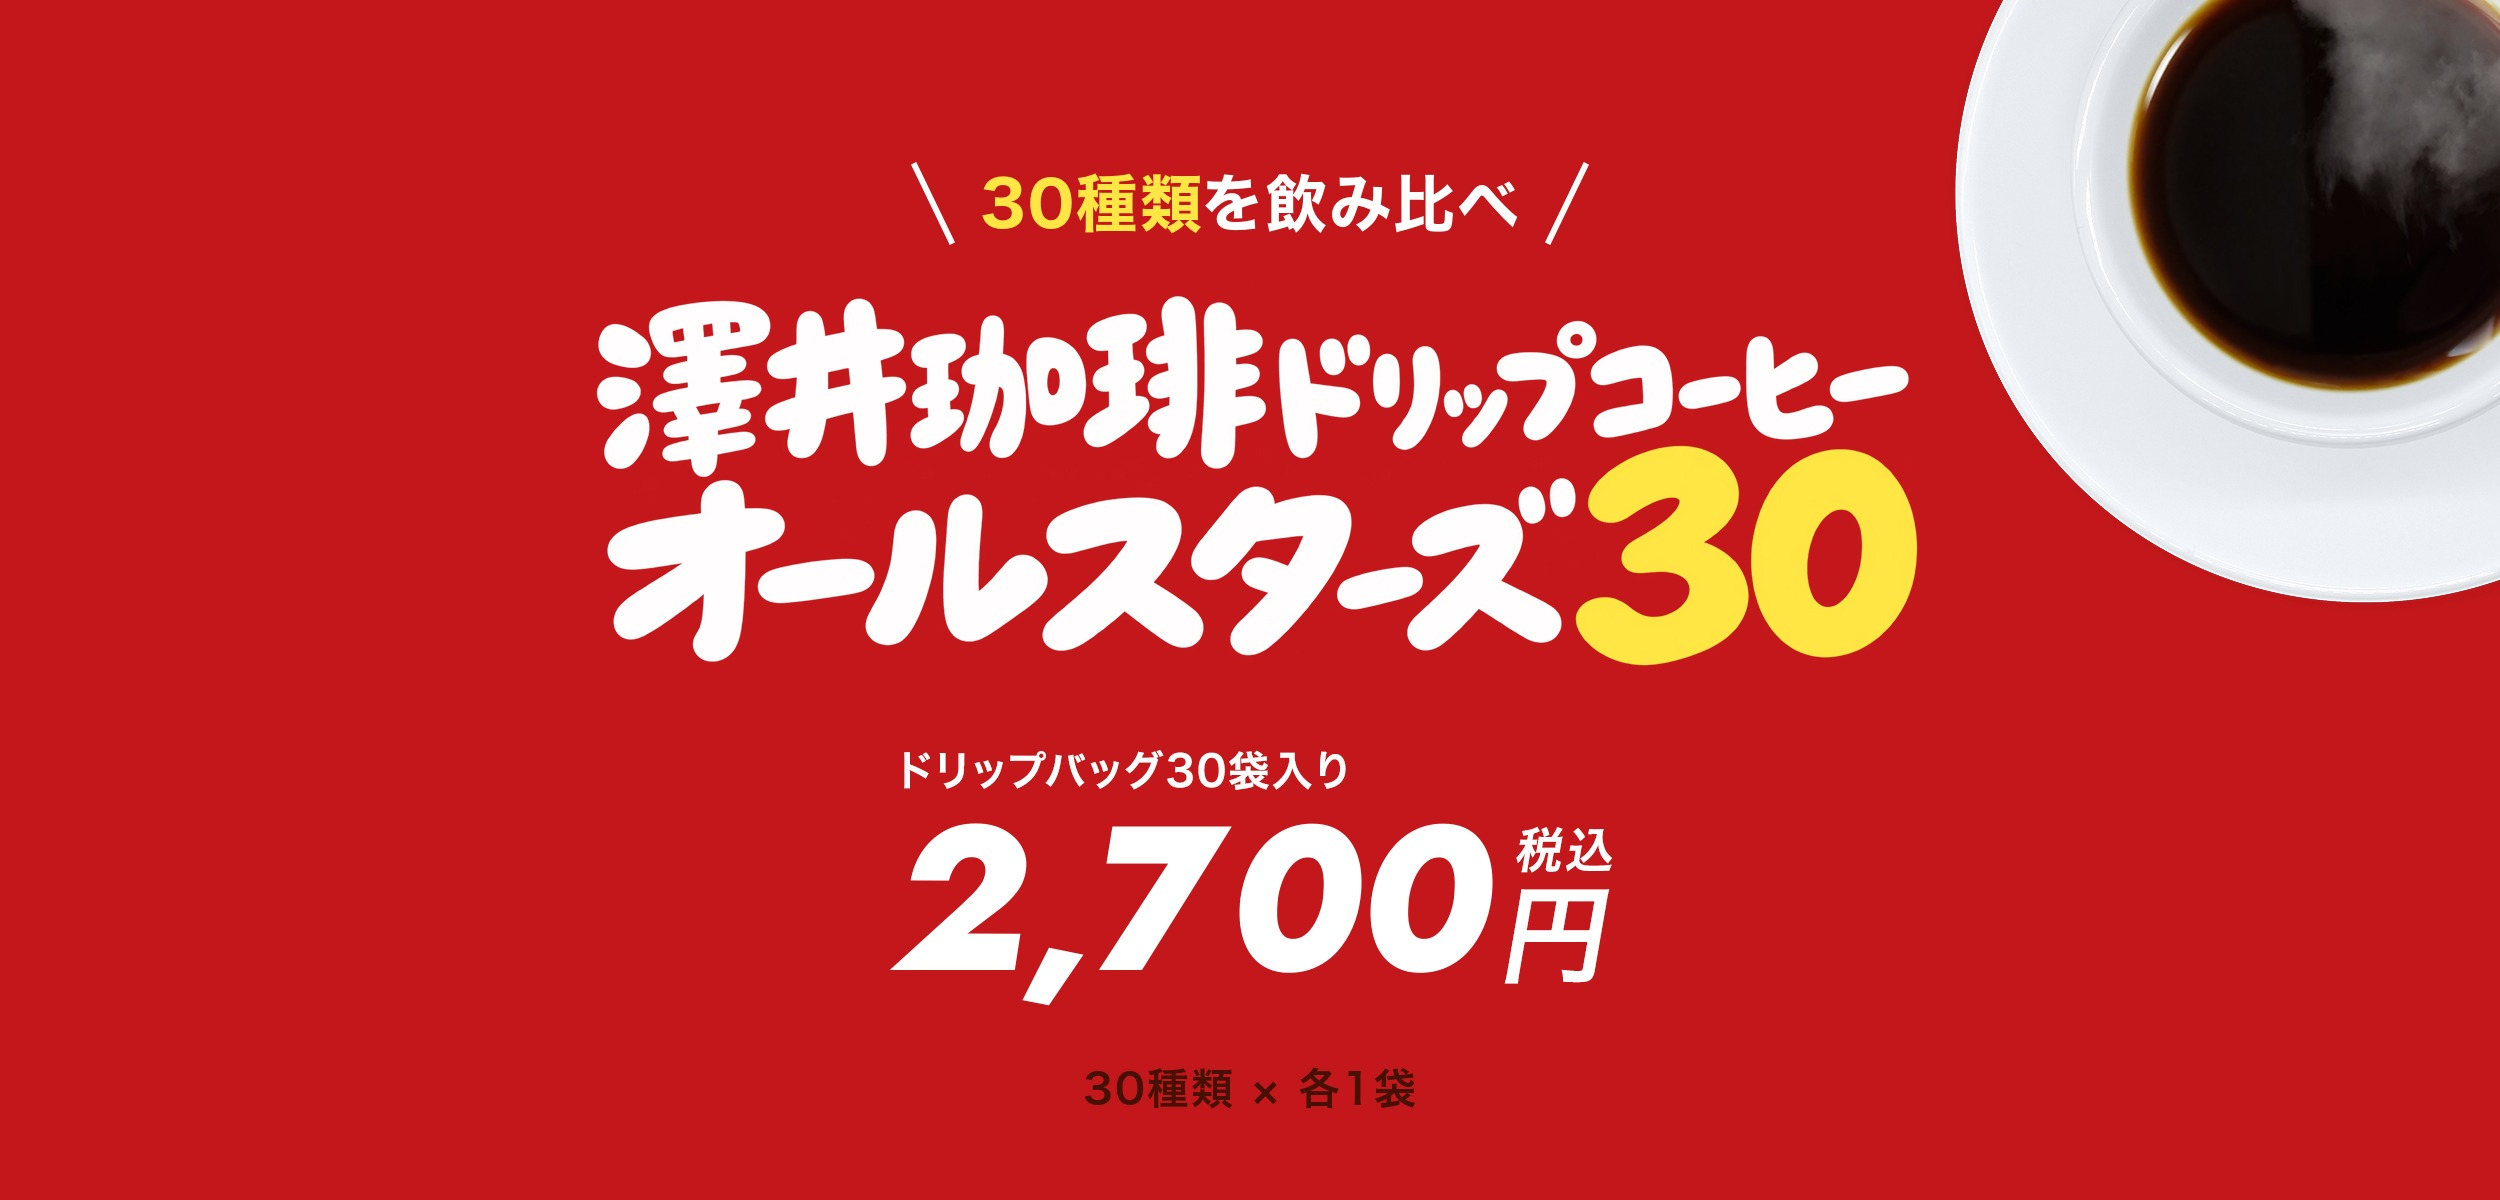
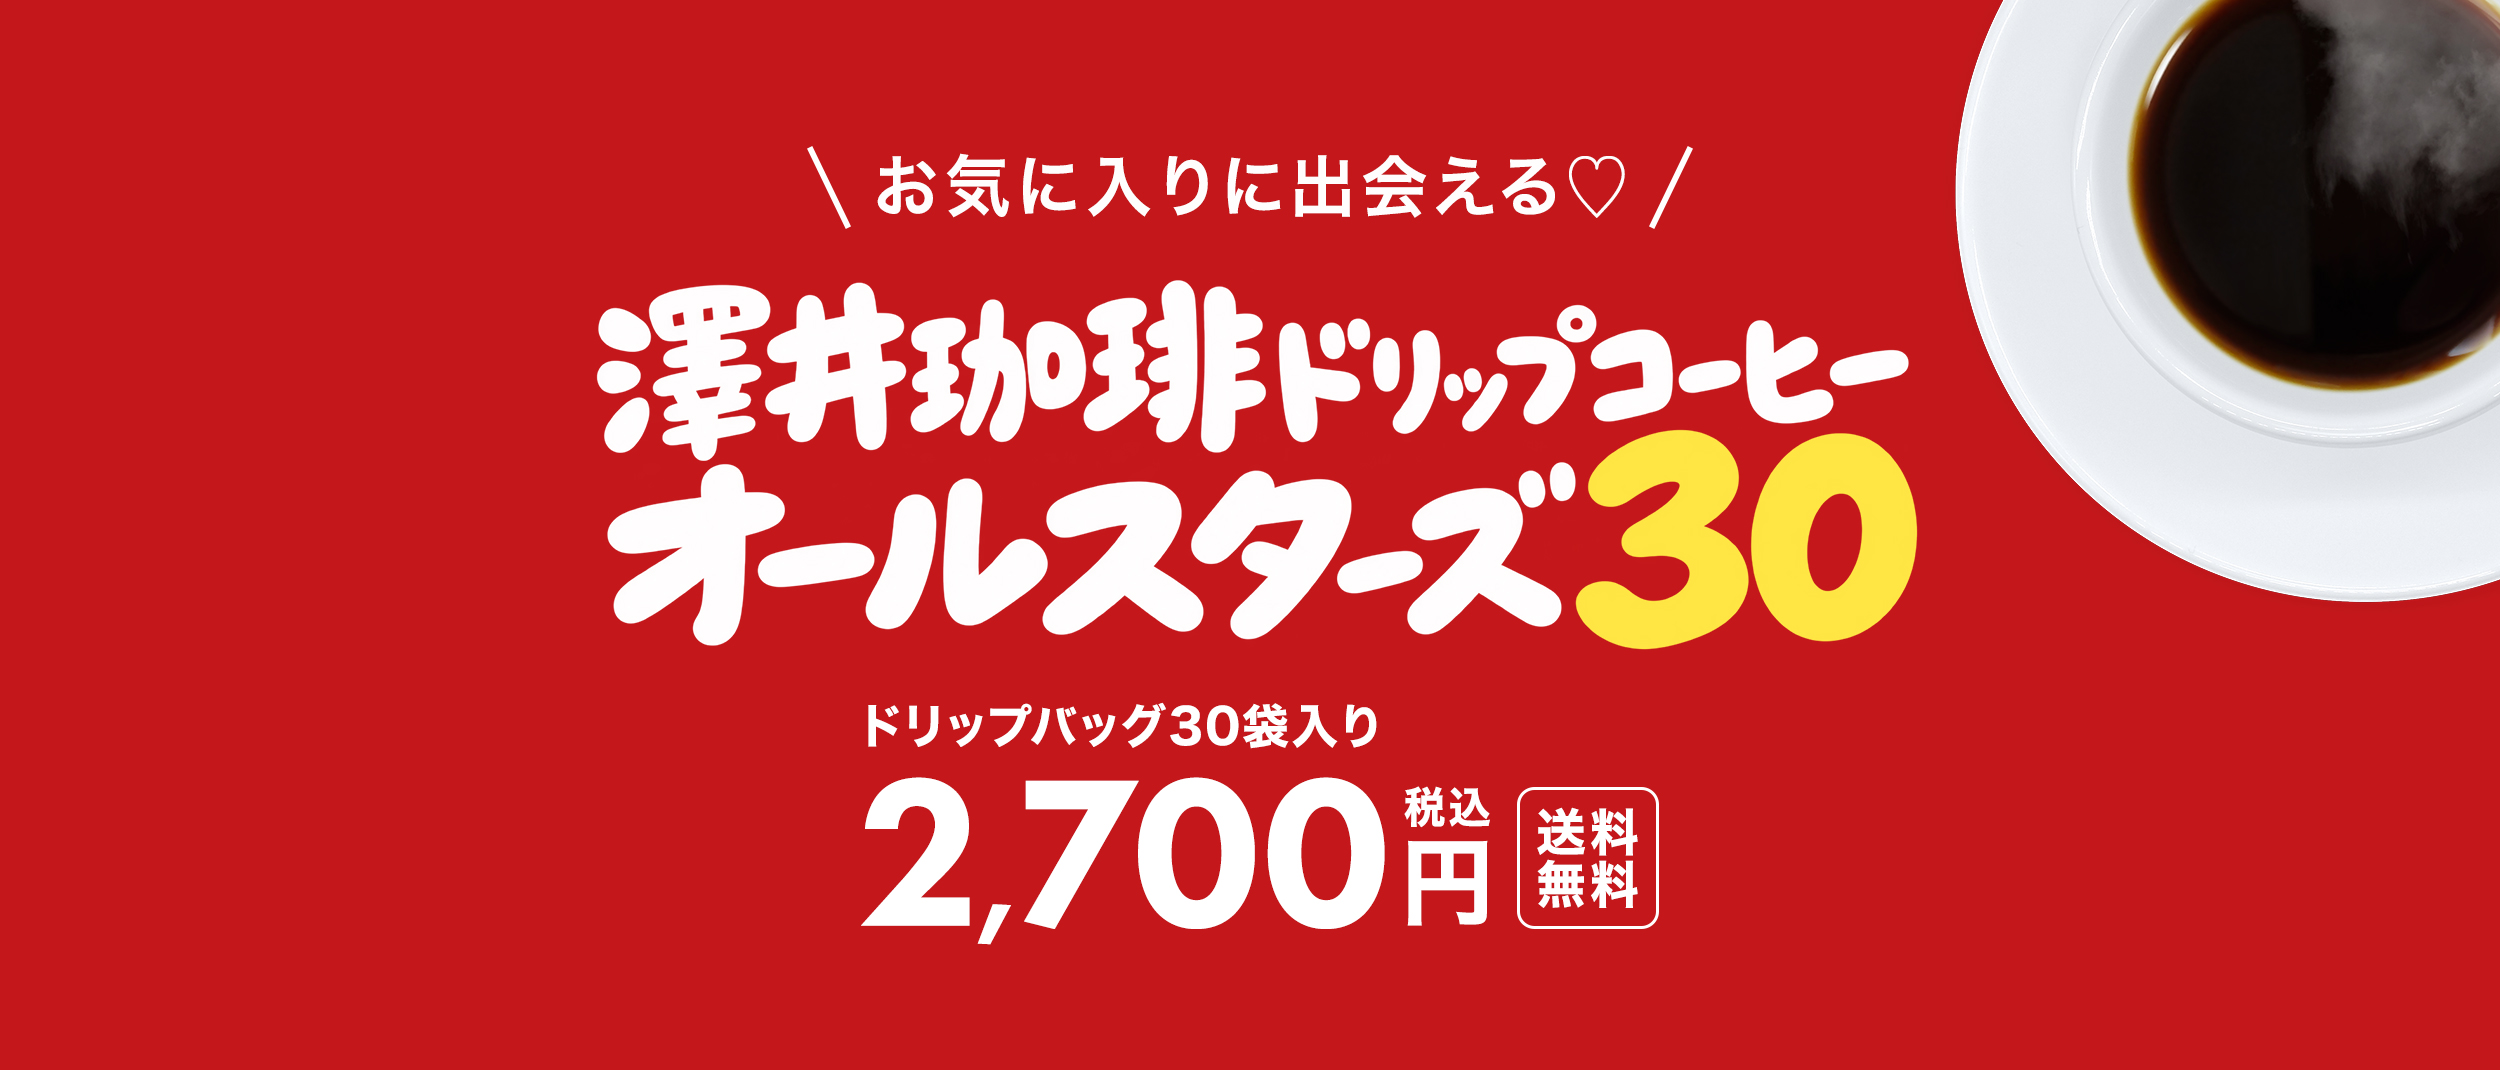
FV画像をデザイン版（お気に入りに出会える・送料無料）に差し替え、袋の列とカップの位置を調整

diff --git a/index.html b/index.html
@@ -4,7 +4,7 @@
 <meta charset="UTF-8">
 <meta name="viewport" content="width=device-width, initial-scale=1, viewport-fit=cover">
 <title>澤井珈琲ドリップコーヒー オールスターズ30｜ドリップバッグ30種類の飲み比べ</title>
-<meta name="description" content="澤井珈琲ドリップコーヒー オールスターズ30。ドリップバッグ30袋入り、30種類ぜんぶ違う珈琲を飲み比べできるセットです。2,700円（税込）。">
+<meta name="description" content="澤井珈琲ドリップコーヒー オールスターズ30。ドリップバッグ30袋入り、30種類ぜんぶ違う珈琲を飲み比べできるセットです。2,700円（税込）送料無料。">
 <link rel="preconnect" href="https://fonts.googleapis.com">
 <link rel="preconnect" href="https://fonts.gstatic.com" crossorigin>
 <link href="https://fonts.googleapis.com/css2?family=Jost:wght@500;600;700&family=Noto+Sans+JP:wght@400;500;700;800&display=swap" rel="stylesheet">
@@ -196,13 +196,13 @@ html{scroll-padding-top:72px}
 .fv-sp{display:none;padding-top:64px;background:#c4171b}
 .fv-sp-in{position:relative;overflow:hidden}
 .fv-sp-in>img:first-child{display:block;width:100%;height:auto}
-.fv-row{position:absolute;left:0;right:0;height:16.53%;overflow:hidden}
-.fv-row.r1{top:60.69%}.fv-row.r2{top:78.62%}
+.fv-row{position:absolute;left:0;right:0;height:16.9%;overflow:hidden}
+.fv-row.r1{top:59.81%}.fv-row.r2{top:78.15%}
 .fv-row-track{display:flex;height:100%;width:max-content;will-change:transform}
 .fv-row-track>div{flex:none;height:100%;aspect-ratio:313/341;margin-right:calc(100vw*.0193);display:flex;align-items:center;justify-content:center}
 .fv-row-track .bag{width:84%}
 .fv-row-track .bag-en{font-size:10px;letter-spacing:0}
-.fv-sp-cup{position:absolute;left:59.8%;top:69.6%;width:50.9%;height:auto;z-index:2;pointer-events:none}
+.fv-sp-cup{position:absolute;left:59.8%;top:68.93%;width:50.9%;height:auto;z-index:2;pointer-events:none}
 @media (max-width:768px){.fv-sp{display:block}}
 
 
@@ -575,10 +575,10 @@ html{scroll-padding-top:72px}
 
 <!-- ===== FV ===== -->
 <!-- ▼ PCのFV（画像・仮）。スマホは下の動くFVを表示 -->
-<h1 class="vh" id="top">澤井珈琲ドリップコーヒー オールスターズ30｜ドリップバッグ30袋入り 2,700円（税込）</h1>
+<h1 class="vh" id="top">澤井珈琲ドリップコーヒー オールスターズ30｜ドリップバッグ30袋入り 2,700円（税込）送料無料</h1>
 <section class="fv-img">
   <div class="fv-img-in">
-    <img src="img/fv-pc_regular.jpg" width="2500" height="1200" alt="30種類を飲み比べ　澤井珈琲ドリップコーヒー オールスターズ30　ドリップバッグ30袋入り　2,700円（税込）　30種類×各1袋">
+    <img src="img/fv-pc_regular.jpg" width="2500" height="1070" alt="お気に入りに出会える　澤井珈琲ドリップコーヒー オールスターズ30　ドリップバッグ30袋入り　2,700円（税込）送料無料">
     <!-- 左の2列：ドリップバッグが縦に流れる（中身はJSで30種を入れる） -->
     <div class="fv-col c1" aria-hidden="true"><div class="fv-track" id="fvTrack1"></div></div>
     <div class="fv-col c2" aria-hidden="true"><div class="fv-track" id="fvTrack2"></div></div>
@@ -601,8 +601,8 @@ html{scroll-padding-top:72px}
 <!-- ▼ スマホのFV（画像＋横に流れる2列＋コーヒーカップ）。PCは上の画像FV -->
 <section class="fv-sp">
   <div class="fv-sp-in">
-    <img src="img/fv-sp_regular.jpg" width="1500" height="2063" alt="30種類を飲み比べ　澤井珈琲ドリップコーヒー オールスターズ30　ドリップバッグ30袋入り　2,700円（税込）　30種類×各1袋">
-    <!-- 画像1500×2063のうち y=1252〜1593 と y=1622〜1963 の位置に、袋が横に流れる2列 -->
+    <img src="img/fv-sp_regular.jpg" width="1500" height="2018" alt="お気に入りに出会える　澤井珈琲ドリップコーヒー オールスターズ30　ドリップバッグ30袋入り　2,700円（税込）送料無料">
+    <!-- 画像1500×2018のうち y=1207〜1548 と y=1577〜1918 の位置に、袋が横に流れる2列 -->
     <div class="fv-row r1" aria-hidden="true"><div class="fv-row-track" id="spTrack1"></div></div>
     <div class="fv-row r2" aria-hidden="true"><div class="fv-row-track" id="spTrack2"></div></div>
     <img class="fv-sp-cup" src="img/fv-sp-cup.webp" width="800" height="783" alt="" aria-hidden="true">
@@ -657,6 +657,7 @@ html{scroll-padding-top:72px}
       <div class="rsv-price">
         <span class="lbl">販売価格</span>
         <b>2,700</b><span class="yen">円<small>（税込）</small></span>
+        <div class="rsv-tags"><span>送料無料</span></div>
       </div>
       <!-- 内容・発売日（下の商品概要も同じ内容） -->
       <dl class="rsv-list">
@@ -786,6 +787,7 @@ html{scroll-padding-top:72px}
         <tr><th>商品名</th><td>澤井珈琲ドリップコーヒー オールスターズ30</td></tr>
         <!-- 価格 -->
         <tr><th>販売価格</th><td><b>2,700</b>円（税込）</td></tr>
+        <tr><th>送料</th><td>送料無料</td></tr>
         <tr><th>内容量</th><td>ドリップバッグ 30袋（30種類×各1袋）</td></tr>
         <!-- 発売日 -->
         <tr><th>発売日</th><td>11月15日（日）</td></tr>

diff --git a/README.md b/README.md
@@ -3,17 +3,16 @@
 **予約販売終了後（2026/11/15 10:00以降）に差し替える通常販売版**です。予約版（sawai-coffee-30p-fukubukuro）から、予約に関する内容をすべて外しています。
 
 ## 予約版からの変更点
-- FV画像：`img/fv-pc_regular.jpg`／`img/fv-sp_regular.jpg`（予約版の fv-pc_p10.jpg／fv-sp_p10.jpg をもとに作成）
-  - 「＼お得なご予約キャンペーン／」→「＼30種類を飲み比べ／」
-  - 「予約販売限定価格」の枠・ポイント10倍・送料無料を外し、「ドリップバッグ30袋入り 2,700円 税込」に（数字はJost Italic 800）
-  - 「予約受付期間」→「30種類 × 各1袋」
+- FV画像：`img/fv-pc_regular.jpg`（2500×1070）／`img/fv-sp_regular.jpg`（1500×2018）。デザイナー作成の「PC_澤井珈琲30種FV-2.jpg」「SP_澤井珈琲30種FV-2.jpg」（＼お気に入りに出会える♡／・ドリップバッグ30袋入り 2,700円 税込 送料無料）
+  - スマホ版は画像に入っていたカップを赤で塗りつぶし、カップは `img/fv-sp-cup.webp` を袋の上に重ねる（袋が完全にカップの下を流れる）
+  - スマホ画像は予約版より45px短いので、袋の2列（`.fv-row` top 59.81%／78.15%・高さ16.9%）とカップ（top 68.93%）の位置も合わせて調整
 - ヘッダー：PC「ドリップバッグ30種類を飲み比べ『オールスターズ30』」／スマホ「30種類を飲み比べ『オールスターズ30』」
 - ボタン：「ご予約はこちら」「予約はこちら」→「ご購入はこちら」、「今すぐ予約する」→「今すぐ購入する」、「オールスターズ30を予約する」→「オールスターズ30を購入する」
 - メニュー：「予約特典について」→「価格・内容」
 - 価格・内容の欄：「ドリップバッグ30袋入り／好評発売中！」、カウントダウンを削除、販売価格2,700円（税込）、内容・発売日
-- 商品概要：販売価格2,700円（税込）・内容量・発売日（送料・ポイント・予約受付期間・予約商品の注意書きは削除）
+- 商品概要：販売価格2,700円（税込）・送料無料・内容量・発売日（ポイント・予約受付期間・予約商品の注意書きは削除）
 - ラインナップ下の注記「30種類すべてが福袋に入っています。」→「30種類すべてが1セットに入っています。」
-- 送料・ポイントは通常販売の条件がわからないため載せていません
+- 送料：FVに合わせて「送料無料」を価格カードと商品概要に記載。ポイントは載せていません
 
 ---
 
